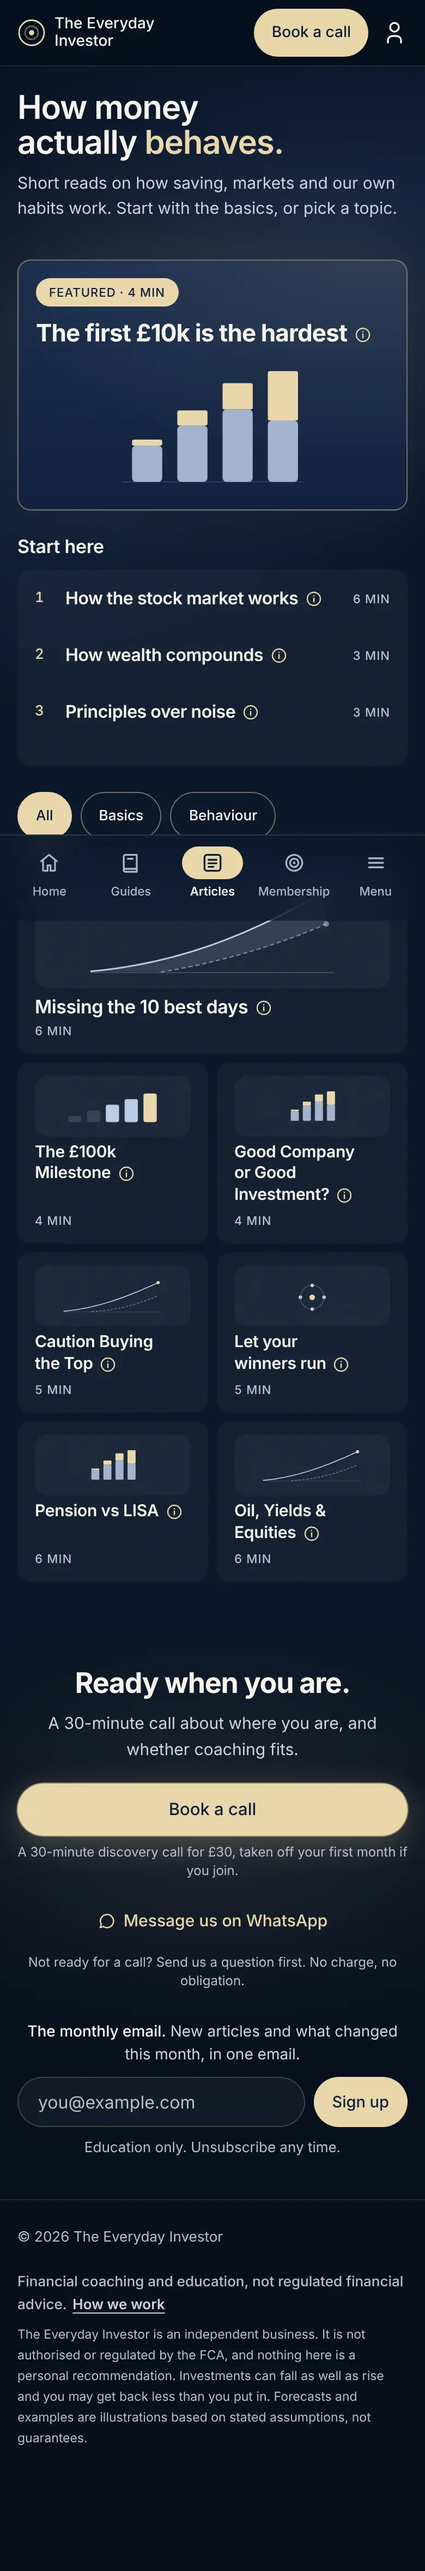
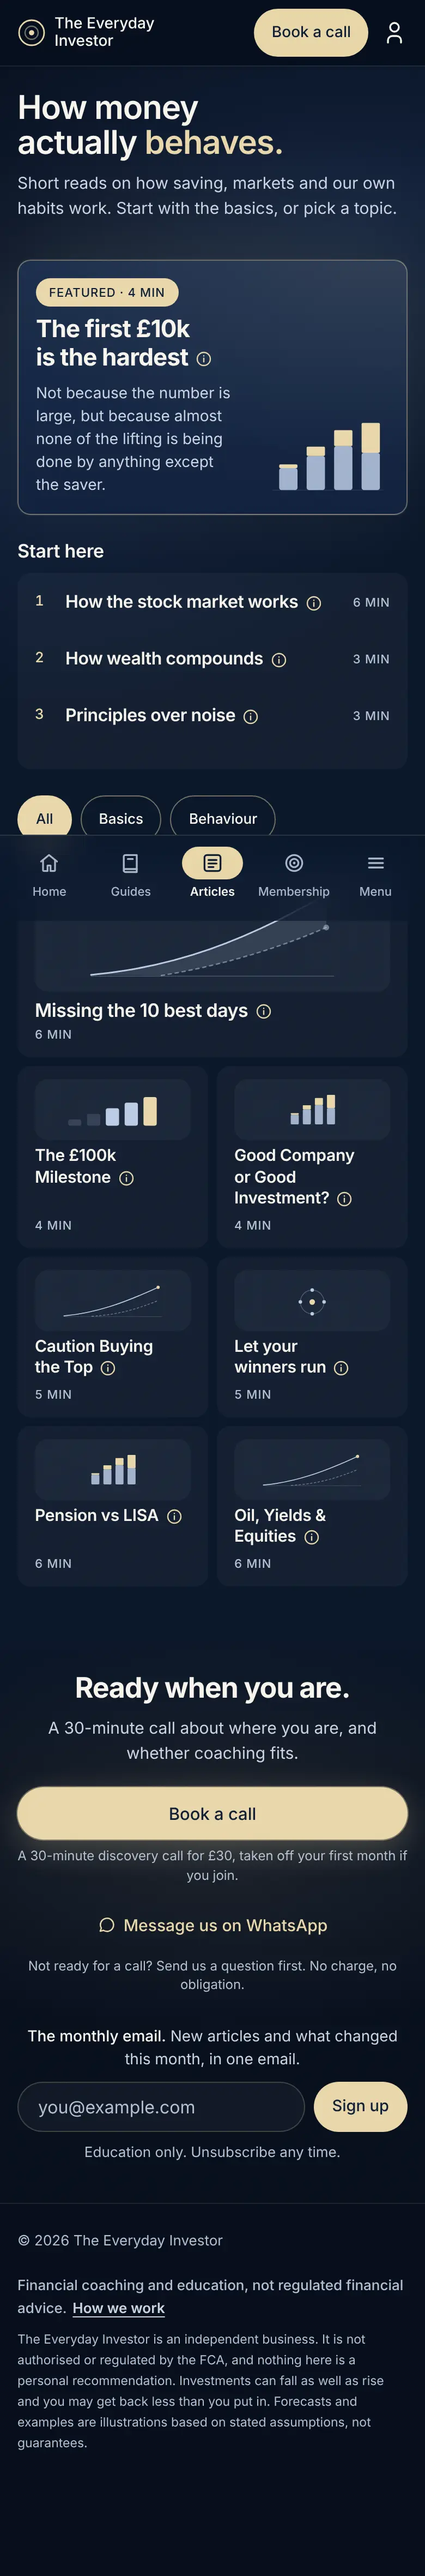
Articles, phones: featured card with the picture on the right and the teaser back
Claude-Session: https://claude.ai/code/session_015wx5SxX2gBEycz1xZd8Pnn

diff --git a/assets/site-pages.css b/assets/site-pages.css
@@ -343,14 +343,14 @@
   .al-info svg { width: 16px; height: 16px; fill: none; stroke: currentColor; stroke-width: 1.8; stroke-linecap: round; }
   .al-info[aria-expanded="true"] svg { fill: rgba(232, 214, 168, .18); }
 
-  /* Featured: chip, title, the picture with room, then Read this if */
-  .al-feat { display: flex; flex-direction: column; gap: 12px; padding: 16px; }
-  .al-feat-body { display: contents; }
-  .al-feat-tag { order: 1; align-self: flex-start; }
-  .al-feat h2 { order: 2; font-size: 22px; line-height: 1.2; }
-  .al-feat-teaser, .al-feat-meta { display: none; }
-  .al-feat-art { order: 3; height: 120px; min-height: 0; }
-  .al-feat-art .gt-svg { left: 8px; bottom: 0; width: calc(100% - 16px); height: 100%; }
+  /* Featured: chip, title and teaser on the left, the picture on the right */
+  .al-feat { grid-template-columns: minmax(0, 1fr) 112px; column-gap: 16px; padding: 16px; }
+  .al-feat-body { padding: 0; gap: 8px; }
+  .al-feat h2 { font-size: 22px; line-height: 1.2; }
+  .al-feat-teaser { font-size: 14px; line-height: 1.5; }
+  .al-feat-body > .al-ri, .al-feat-meta { display: none; }
+  .al-feat-art { height: auto; min-height: 0; }
+  .al-feat-art .gt-svg { left: 0; bottom: 0; width: 100%; height: 100%; }
 
   /* Start here: one tile, three numbered rows */
   .al-start { margin-top: 24px; }
